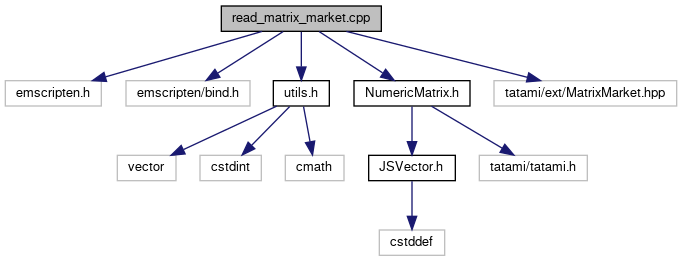
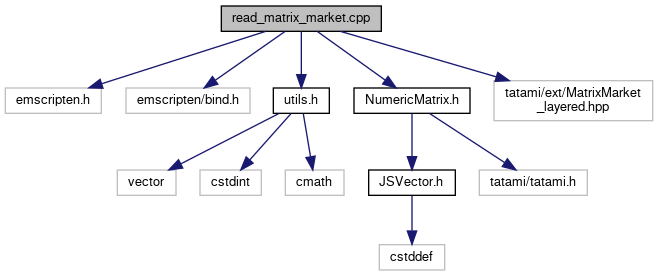
Deploying to gh-pages from @ jkanche/scran.js@76601e2ca7430471de5ad0034a4c2c8cbbc3f5aa 🚀

Changed region(s): [[0.0, 0.0, 1.0, 0.9808], [0.1824, 0.1839, 0.304, 0.2759]]

diff --git a/docs/read__matrix__market_8cpp.html b/docs/read__matrix__market_8cpp.html
@@ -73,24 +73,24 @@ $(function() {
 <code>#include &lt;emscripten/bind.h&gt;</code><br />
 <code>#include &quot;<a class="el" href="utils_8h_source.html">utils.h</a>&quot;</code><br />
 <code>#include &quot;<a class="el" href="NumericMatrix_8h_source.html">NumericMatrix.h</a>&quot;</code><br />
-<code>#include &quot;tatami/ext/MatrixMarket.hpp&quot;</code><br />
+<code>#include &quot;tatami/ext/MatrixMarket_layered.hpp&quot;</code><br />
 </div><div class="textblock"><div class="dynheader">
 Include dependency graph for read_matrix_market.cpp:</div>
 <div class="dyncontent">
 <div class="center"><img src="read__matrix__market_8cpp__incl.png" border="0" usemap="#aread__matrix__market_8cpp" alt=""/></div>
 <map name="aread__matrix__market_8cpp" id="aread__matrix__market_8cpp">
 <area shape="rect" title=" " alt="" coords="221,5,381,32"/>
-<area shape="rect" title=" " alt="" coords="5,80,101,107"/>
-<area shape="rect" title=" " alt="" coords="126,80,250,107"/>
-<area shape="rect" href="utils_8h.html" title=" " alt="" coords="273,80,329,107"/>
-<area shape="rect" href="NumericMatrix_8h.html" title="Javascript wrapper for a numeric matrix." alt="" coords="354,80,470,107"/>
-<area shape="rect" title=" " alt="" coords="494,80,677,107"/>
-<area shape="rect" title=" " alt="" coords="117,155,176,181"/>
-<area shape="rect" title=" " alt="" coords="200,155,261,181"/>
-<area shape="rect" title=" " alt="" coords="285,155,344,181"/>
-<area shape="rect" href="JSVector_8h.html" title=" " alt="" coords="369,155,455,181"/>
-<area shape="rect" title=" " alt="" coords="479,155,587,181"/>
-<area shape="rect" title=" " alt="" coords="379,229,445,256"/>
+<area shape="rect" title=" " alt="" coords="5,87,101,114"/>
+<area shape="rect" title=" " alt="" coords="126,87,250,114"/>
+<area shape="rect" href="utils_8h.html" title=" " alt="" coords="273,87,329,114"/>
+<area shape="rect" href="NumericMatrix_8h.html" title="Javascript wrapper for a numeric matrix." alt="" coords="354,87,470,114"/>
+<area shape="rect" title=" " alt="" coords="494,80,653,121"/>
+<area shape="rect" title=" " alt="" coords="117,169,176,196"/>
+<area shape="rect" title=" " alt="" coords="200,169,261,196"/>
+<area shape="rect" title=" " alt="" coords="285,169,344,196"/>
+<area shape="rect" href="JSVector_8h.html" title=" " alt="" coords="369,169,455,196"/>
+<area shape="rect" title=" " alt="" coords="479,169,587,196"/>
+<area shape="rect" title=" " alt="" coords="379,244,445,271"/>
 </map>
 </div>
 </div><table class="memberdecls">
